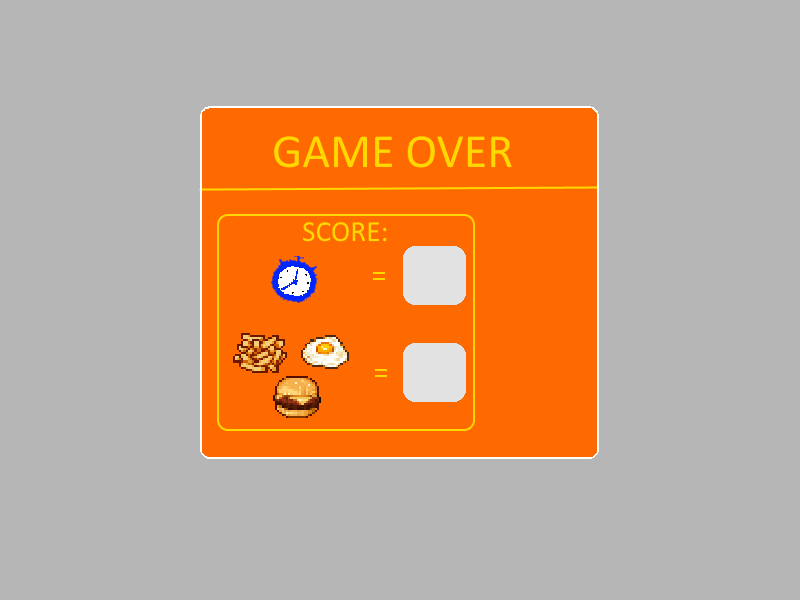
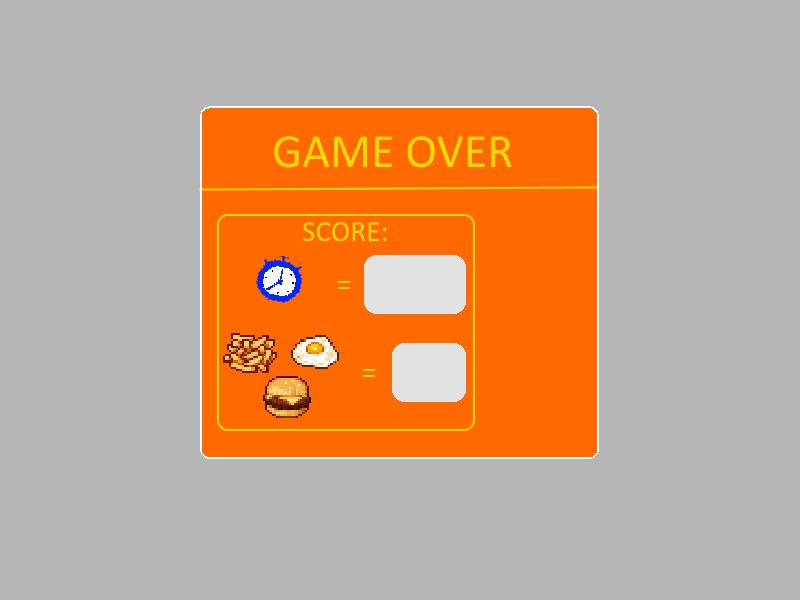
Set prestart Screen

Changed region(s): [[0.2812, 0.54, 0.5312, 0.72], [0.4375, 0.39, 0.5938, 0.54], [0.3125, 0.42, 0.4062, 0.51]]

diff --git a/modules/screens.js b/modules/screens.js
@@ -9,7 +9,7 @@ import { animSprite } from '../modules/simpleSprite'
 const sprtSize = 70
 const dishSize = 110
 const optionsSize = 40
-const timeRecord = 30 // Record: 27
+const timeRecord = 30 // Record: 25
 
 function randomNumber() {
     let min = 0
@@ -77,6 +77,10 @@ class GameScreen {
         this.foodCount = 50
         this.timeText = new TimeText(60,20,timeRecord) // Set Timer Record:27 (also line: 200)
 
+        // Pre-Start Screen
+        this.prestartScreen = new Container();
+        this.setprestartScreen()
+
         //Score Screen
         this.scoreScreen = new Container();
         this.setScoreScreen()
@@ -85,25 +89,45 @@ class GameScreen {
         this.winnerScreen = new Container();
         this.setVictoryScreen()
 
+        // Set main Container
+        this.mainStage.addChild(this.container)
+
+    }
+
+    setprestartScreen() {
+        this.prestart_background = new GameBackground(config.gameWidth/2,config.gameHeight/2,
+            config.gameWidth,config.gameHeight,"prestartScreen")
+
+        window.onkeyup = (key) => {
+            if(key.code == "KeyB" && this.prestartScreen.visible){
+                this.prestartScreen.visible = false
+                this.init = true
+            }
+        }
+        
+        this.prestartScreen.addChild(this.prestart_background.getSprite())
+        this.container.addChild(this.prestartScreen)
     }
 
     setVictoryScreen() {
         this.winner_background = new GameBackground(config.gameWidth/2,config.gameHeight/2,
             config.gameWidth,config.gameHeight,"winnerScreen")
 
-        this.btn_ok = new Button_start(415,430,104,43,'btn_ok').getSprite()
+        this.btn_ok = new Button_start(530,430,104,43,'btn_ok').getSprite()
         this.btn_ok.on('pointerdown', () => {
             sound.stop('victoryMusic')
+            this.winnerScreen.visible = false
             this.titleScreen = true
             this.active = false
             this.initActive = true
+            this.prestartScreen.visible = true
         });
 
         // ============ Animation Sprites =========================
-        this.anim1 = animSprite('sprite',280,350,128,128,5,0.08)
+        this.anim1 = animSprite('sprite',280,380,128,128,5,0.08)
         this.anim1.play()
 
-        this.anim2 = animSprite('pin',500,170,64,64,5,0.08)
+        this.anim2 = animSprite('pin',530,150,64,64,5,0.08)
         this.anim2.play()
         // ============ Animation Sprites =========================
         
@@ -117,17 +141,17 @@ class GameScreen {
         this.btn_start = new Button_start(535,320,104,43,'btn_ok').getSprite()
         this.btn_start.on('pointerdown', () => {
             this.scoreScreen.visible = false
-            this.init = true
+            this.prestartScreen.visible = true
         });
         
-        this.scoreTime = new ScoreText(432,275,"0")
+        this.scoreTime = new ScoreText(415,282,"0")
         this.scoreCount = new ScoreText(432,375,"0")
 
         this.scoreScreen.addChild(this.score_background.getSprite(),this.scoreTime.getText(),this.scoreCount.getText(),this.btn_start)
     
     }
 
-    finishGame() {
+    finishGame() {        
         sound.stop('musicStart')
         this.finish = true
         let count = 0
@@ -241,9 +265,6 @@ class GameScreen {
         // Timer
         this.container.addChild(this.timeText.getText())
 
-        // Set main Container
-        this.mainStage.addChild(this.container)
-
         // Set Object on Screen
         this.objectArray.forEach(obj => {
             this.container.addChild(obj.data.getSprite())
@@ -278,11 +299,18 @@ class GameScreen {
                     }
                 }
             }
+
+            if(key.code == "KeyB" && this.prestartScreen.visible){
+                this.prestartScreen.visible = false
+                this.init = true
+            }
         }
         // ============== KEY ACTIONS ======================
 
         
         // Set Score Screen at last
+        this.container.addChild(this.prestartScreen)
+
         this.container.addChild(this.scoreScreen)
         this.container.addChild(this.winnerScreen)
         this.winnerScreen.visible = false

diff --git a/config/assets.js b/config/assets.js
@@ -36,6 +36,7 @@ var assets = [
     // Additional Assets
     { name: "background", url: "../assets/background.png" },
     { name: "backgroundTitle", url: "../assets/title_instructions.png" },
+    { name: "prestartScreen", url: "../assets/prestartScreen.png" },
     { name: "scoreScreen", url: "../assets/scoreScreen.png" },
     { name: "winnerScreen", url: "../assets/winnerScreen.png" },
     { name: "stopwatch", url: "../assets/stopwatch.png" },

diff --git a/index.html b/index.html
@@ -4,7 +4,7 @@
     <meta charset="UTF-8" />
     <link rel="icon" type="image/svg+xml" href="favicon.svg" />
     <meta name="viewport" content="width=device-width, initial-scale=1.0" />
-    <title>AvepiStudios</title>
+    <title>Fast-Food</title>
   </head>
   <body>
     <div id="app"></div>

diff --git a/main.js b/main.js
@@ -34,7 +34,7 @@ function start() {
           titleScreen.active = false
           
           gameScreen.container.visible = true
-          gameScreen.init =  true
+          //gameScreen.init =  true
         }
 
         if(gameScreen.titleScreen && gameScreen.initActive){
